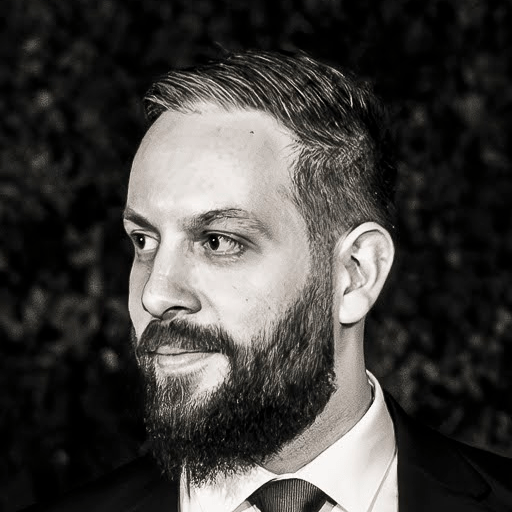
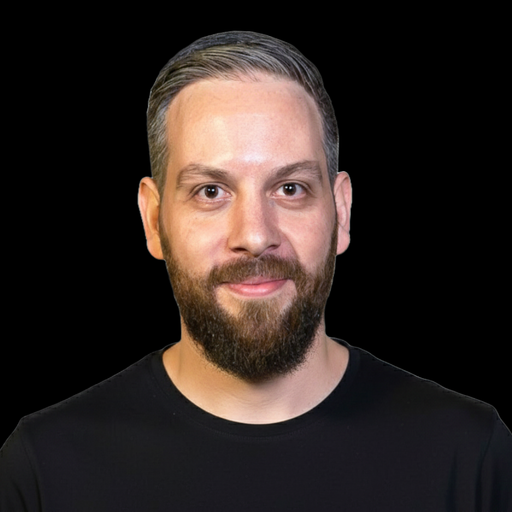
update profile picture

diff --git a/src/routes/cv.tsx b/src/routes/cv.tsx
@@ -56,7 +56,7 @@ function CV() {
             alt="Richard Solomou"
             className="shrink-0 rounded-full print:size-25"
             height={128}
-            src="/images/richard-face.png"
+            src="/images/richard.png"
             width={128}
           />
 
